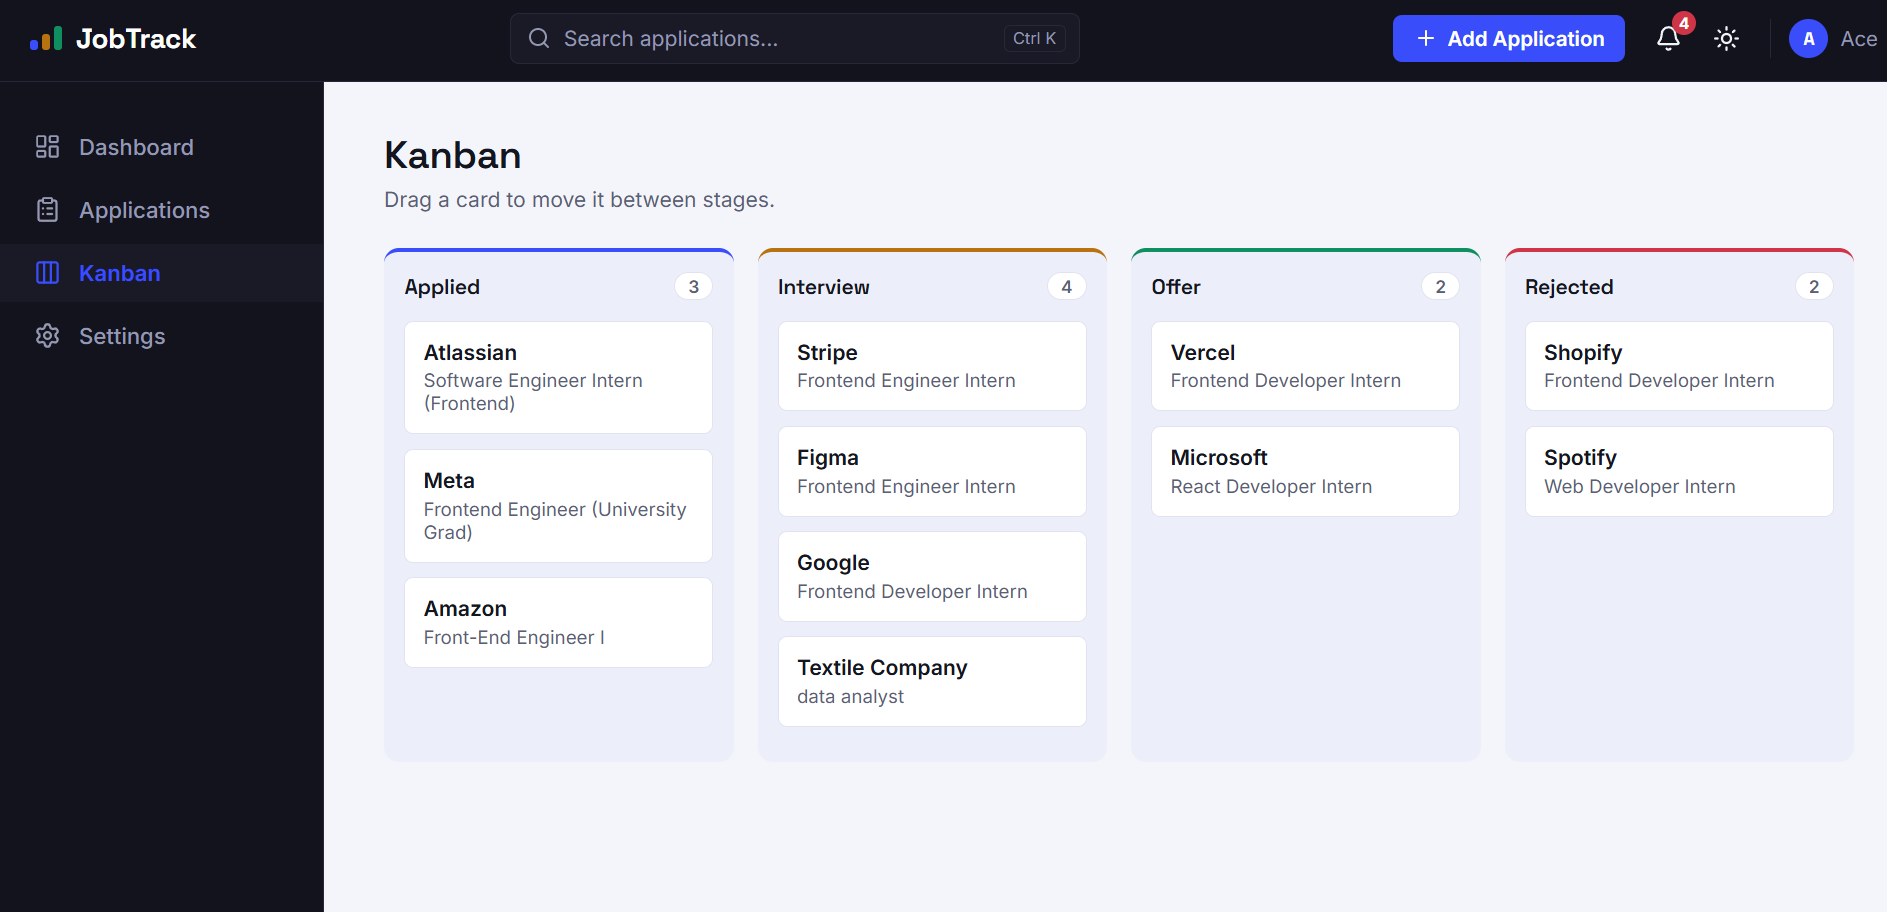
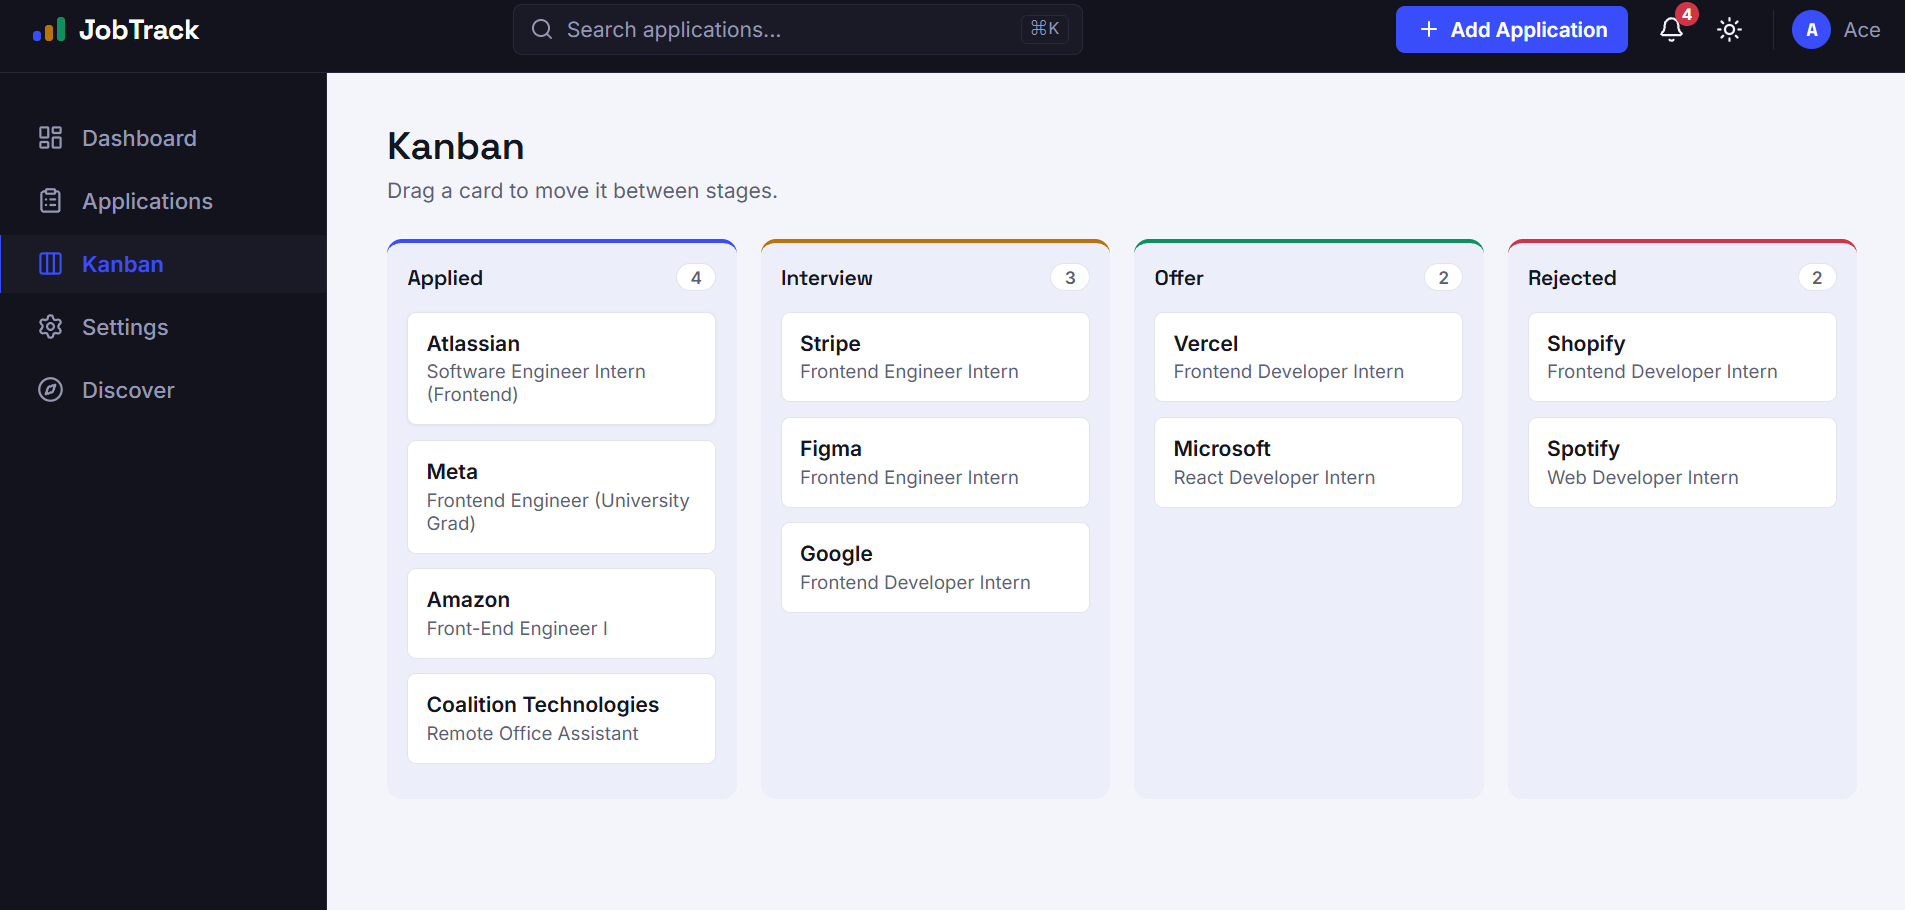
Updated the GIF video

diff --git a/README.md b/README.md
@@ -1,76 +1,83 @@
 # JobTrack Web Application
 
-A Kanban-style dashboard for tracking internship and job applications — built from scratch with React to practice component design, routing, state management, and Context, and to have a real, working portfolio project rather than another to-do list clone.
+A Kanban-style dashboard for tracking internship and job applications — built from scratch with React to practice component design, routing, state management, data fetching, and Context, and to have a real, working portfolio project rather than another to-do list clone.
 
 **Live demo:** https://job-track-lake.vercel.app/
-![Job Track demo](src/images/JobTrack-ezgif.com-optimize.gif)
+
+**GitHub repository:** https://github.com/aishmaskey23-ace/Job-Track-
+
+![JobTrack demo](src/images/job%20track%20demo.gif)
 
 > Built by [Aish Maskey](https://github.com/aishmaskey23-ace) as a self-directed learning project while studying frontend development.
 
 ## About
 
-Job hunting means juggling dozens of applications across spreadsheets, emails, and sticky notes. JobTrack pulls all of that into one place: add an application once, then track it through Applied → Interview → Offer / Rejected, with a dashboard summarizing where things stand and a Kanban board for a faster visual overview.
+Job hunting means juggling dozens of applications across spreadsheets, emails, and sticky notes. JobTrack pulls all of that into one place: discover remote roles or add your own, then track each application through Applied → Interview → Offer / Rejected, with a dashboard summarizing where things stand, deadline reminders so nothing slips, and a Kanban board for a faster visual overview.
 
-Everything is stored in the browser via `localStorage` — no backend, no sign-up, your data never leaves your machine.
+Your applications are stored in the browser via `localStorage` — no backend, no sign-up, your data never leaves your machine. The only network request the app makes is the Discover page fetching public job listings.
 
 ## Features
 
-- **Dashboard** — at-a-glance stats (total, applied, interview, offers) and a monthly activity chart, both computed live from your data
+- **Dashboard** — stat cards (total, applied, interview, offers, interview rate), a monthly activity bar chart, a status breakdown donut chart, and an upcoming-deadlines card, all computed live from your data
+- **Discover Jobs** — live remote software listings from the [Remotive](https://remotive.com) API, with search, job-type and location filters, loading and error states with retry, and a one-click "Add to tracker" that pre-fills the application form
 - **Applications list** — full CRUD (add, view, edit, delete), with search by company, filter by status, and five sort options
-- **Kanban board** — drag and drop applications between status columns
+- **Kanban board** — drag and drop applications between status columns, plus a "Move to" menu on every card for touch and keyboard use
 - **Application details** — a dedicated page per application with a shareable URL (`/applications/:id`)
-- **Persistent storage** — everything survives a page refresh via `localStorage`
+- **Deadline awareness** — overdue and due-soon chips, an upcoming-deadlines card, and reminders in the notification bell (rejected applications are excluded)
+- **Notifications** — a bell with an unread badge for new applications, status changes, and approaching deadlines
+- **Quick add and global search** — add an application from any page, and press `Ctrl/⌘ + K` to search every application with arrow-key navigation
+- **Persistent storage** — applications, notifications, and your theme survive a page refresh via `localStorage`
 - **Dark mode** — toggleable from the navbar or Settings, persisted across sessions
-- **Responsive** — collapsible sidebar and stacking layouts down to mobile widths
-- **Accessible** — semantic landmarks, labeled icon buttons, visible focus states, `aria-live` form errors, and a keyboard-dismissible (Escape) modal
-- Deadline awareness: an upcoming-deadlines card, overdue and due-soon chips, and deadline reminders in the notification bell.
-
+- **Responsive** — a drawer sidebar on mobile, stacking layouts, and touch-friendly tap targets from phone to desktop widths
+- **Accessible** — semantic landmarks, labeled icon buttons, visible focus states, `role="alert"` form errors, a text alternative for the SVG chart, an ARIA combobox for search, and modals and dropdowns that close with Escape
+- **Fast page loads** — each page is code-split with `React.lazy` and loads behind a spinner
 
 ## Tech Stack
 
-- **React 19** — components, hooks, Context API
-- **React Router v7** — client-side routing, nested layouts, dynamic segments
+- **React 19** — components, hooks, Context API, `lazy` / `Suspense`
+- **React Router v7** — client-side routing, nested layouts, dynamic segments, a 404 route
 - **Vite** — build tooling and dev server
+- **Remotive public API** — live job listings for the Discover page
+- **lucide-react** — icon set
 - **Plain CSS** — a small custom design-token system (`src/styles/tokens.css`), no UI framework
-- **`localStorage`** — the only persistence layer; no backend
+- **`localStorage`** — persistence for applications, notifications, and preferences; no backend
+- **Vercel** — hosting, with a rewrite so deep links and page refreshes work
 
 ## Screenshots
 
-Dashboard View:
-![Dashboard Image](src/images/dashboard.png)
-![alt text](src/images/dashboardd.png)
+**Dashboard**
+![JobTrack dashboard](src/images/dashboard.png)
+![dashboard continued](src/images/dashboard%20continue.png)
 
-Applications List:
-![Applications list image](src/images/applications.png) 
-![alt text](src/images/image.png)
+**Applications list**
+![Applications list](src/images/applicationlist.png)
+![Application cards and filters](src/images/addapplication.png)
 
-Kanban board:
-![Kanban Board Image]!(src/images/kanban.png)
+**Kanban board**
+![Kanban board](src/images/kanban.png)
 
-
-```
-screenshots/
-├── dashboard.png
-├── applications.png
-└── kanban.png
-```
+**Discover Jobs**
+![Discover Jobs page](src/images/discover.png)
 
 ## Installation
 
+Requires Node.js 20 or newer.
+
 ```bash
 git clone https://github.com/aishmaskey23-ace/Job-Track-.git
-cd jobtrack
+cd Job-Track-
 npm install
 npm run dev
 ```
 
 Then open the local URL Vite prints (typically `http://localhost:5173`).
 
-To build for production:
+Other scripts:
 
 ```bash
-npm run build
-npm run preview
+npm run build     # production build
+npm run preview   # preview the production build locally
+npm run lint      # run ESLint
 ```
 
 ## Project Structure
@@ -80,31 +87,46 @@ src/
 ├── components/
 │   ├── applications/   # ApplicationCard, ApplicationList, ApplicationForm,
 │   │                   # SearchBar, FilterBar, Modal, ConfirmDialog
-│   ├── common/         # LoadingSpinner, ErrorState
-│   └── layout/         # Navbar, Sidebar, Layout
-├── context/            # ApplicationContext (global application state)
-├── data/                # Sample/seed application data
-├── hooks/               # useApplications, useLocalStorage
-├── pages/                # Dashboard, Applications, Kanban, Settings, ApplicationDetails
-└── styles/               # Design tokens (colors, type, spacing)
+│   ├── common/         # StatusBadge, DeadlineChip, LoadingSpinner, ErrorState
+│   ├── dashboard/      # StatCard, StatusDonut, UpcomingDeadlines
+│   ├── discover/       # JobCard
+│   └── layout/         # Navbar, Sidebar, Layout, GlobalSearch
+├── context/            # ApplicationContext (applications, notifications, reminders)
+├── data/               # Sample/seed application data
+├── hooks/              # useApplications, useLocalStorage, useRemoteJobs
+├── pages/              # Dashboard, Applications, ApplicationDetails, Kanban,
+│                       # Discover, Settings, NotFound
+├── styles/             # Design tokens and responsive rules
+└── utils/              # Deadline and job-listing helpers
+vercel.json             # SPA rewrite for deep links
 ```
 
 ## How it's built
 
 A few decisions worth calling out for anyone reading the code:
 
-- **State lives in one place.** `useApplications` (a custom hook) owns all application data and CRUD logic, persisted via a second custom hook, `useLocalStorage`. `ApplicationContext` exposes both to every page without prop-drilling.
-- **Derived data is never stored.** Dashboard's stats and the monthly activity chart are computed with `useMemo` straight from the applications array — there's no separate "stats state" that could drift out of sync.
-- **Performance is targeted, not blanket.** `React.memo` on `ApplicationCard` plus `useCallback` on the handlers passed into it stop the whole list re-rendering on every keystroke in the search box — the one place in the app where it actually mattered.
-- **Kanban drag-and-drop uses the native HTML5 API** (`draggable`, `onDragStart`, `onDrop`), not a library — a deliberate choice to practice the underlying browser API.
+- **State lives in one place.** `useApplications` (a custom hook) owns all application data, CRUD logic, and notifications, persisted via a second custom hook, `useLocalStorage`. `ApplicationContext` exposes it to every page without prop-drilling.
+- **Derived data is never stored.** Dashboard stats, the interview rate, both charts, deadline reminders, and the "Tracked" badge on Discover cards are all computed from state rather than kept as separate state that could drift out of sync.
+- **Interview rate is defined deliberately.** It is (Interview + Offer) ÷ Total: an application at the Offer stage has necessarily been interviewed. Rejected applications are excluded, since the app can't tell whether they were rejected before or after an interview.
+- **Charts are hand-built.** The bar chart uses CSS, and the donut chart is plain SVG using `stroke-dasharray` and `stroke-dashoffset` — no charting library.
+- **Fetching respects the API's rules.** Remotive asks for only a handful of requests per day, so `useRemoteJobs` fetches a single batch, caches it in `localStorage` for 6 hours, and does all searching and filtering in the browser. A shared in-flight promise prevents duplicate requests, effect cleanup ignores stale responses, and network, HTTP, and malformed-response failures each produce a clear error with a retry button.
+- **Dates are handled in local time.** ISO date strings are parsed as local dates, since `new Date("2026-10-24")` is read as UTC and can show the wrong day depending on the user's timezone. Sample data dates are generated relative to today so the deadline features always look current.
+- **Reusable components.** `StatusBadge`, `StatCard`, `DeadlineChip`, and `JobCard` are shared across pages, and one `Modal` wrapper serves the add/edit form, the delete confirmation, and the Discover "Add to tracker" flow. `ApplicationForm` handles adding, editing, and pre-filled adds depending on the props it receives.
+- **Performance is targeted, not blanket.** `React.memo` on `ApplicationCard` plus `useCallback` on the handlers passed into it stop the whole list re-rendering on every keystroke in the search box. Routes are code-split with `React.lazy` and `Suspense`.
+- **Kanban works with mouse, touch, and keyboard.** Drag-and-drop uses the native HTML5 API (`draggable`, `onDragStart`, `onDrop`), and every card also has a "Move to" menu, since native drag-and-drop doesn't work on touch screens or with a keyboard.
+
+## Data and attribution
+
+Job listings on the Discover page are provided by [Remotive](https://remotive.com). Listings are delayed by 24 hours and cached for up to 6 hours, and every card links back to its original Remotive posting. The applications shown on first load are sample data.
 
 ## Future Improvements
 
-- [ ] Keyboard-operable alternative to Kanban's drag-and-drop (e.g. a "Move to..." menu per card), since native HTML5 drag-and-drop isn't keyboard accessible
+- [ ] Automated tests (Vitest + React Testing Library) and a CI workflow
 - [ ] Swap `localStorage` for a real backend (auth + a database) so data syncs across devices
-- [ ] Automated tests (Vitest + React Testing Library)
-- [ ] CSV export of applications
-
+- [ ] CSV export and JSON backup/restore of applications
+- [ ] Status history timeline and an analytics page (conversion funnel, applications per week)
+- [ ] TypeScript migration
 
 ## License
+
 MIT
